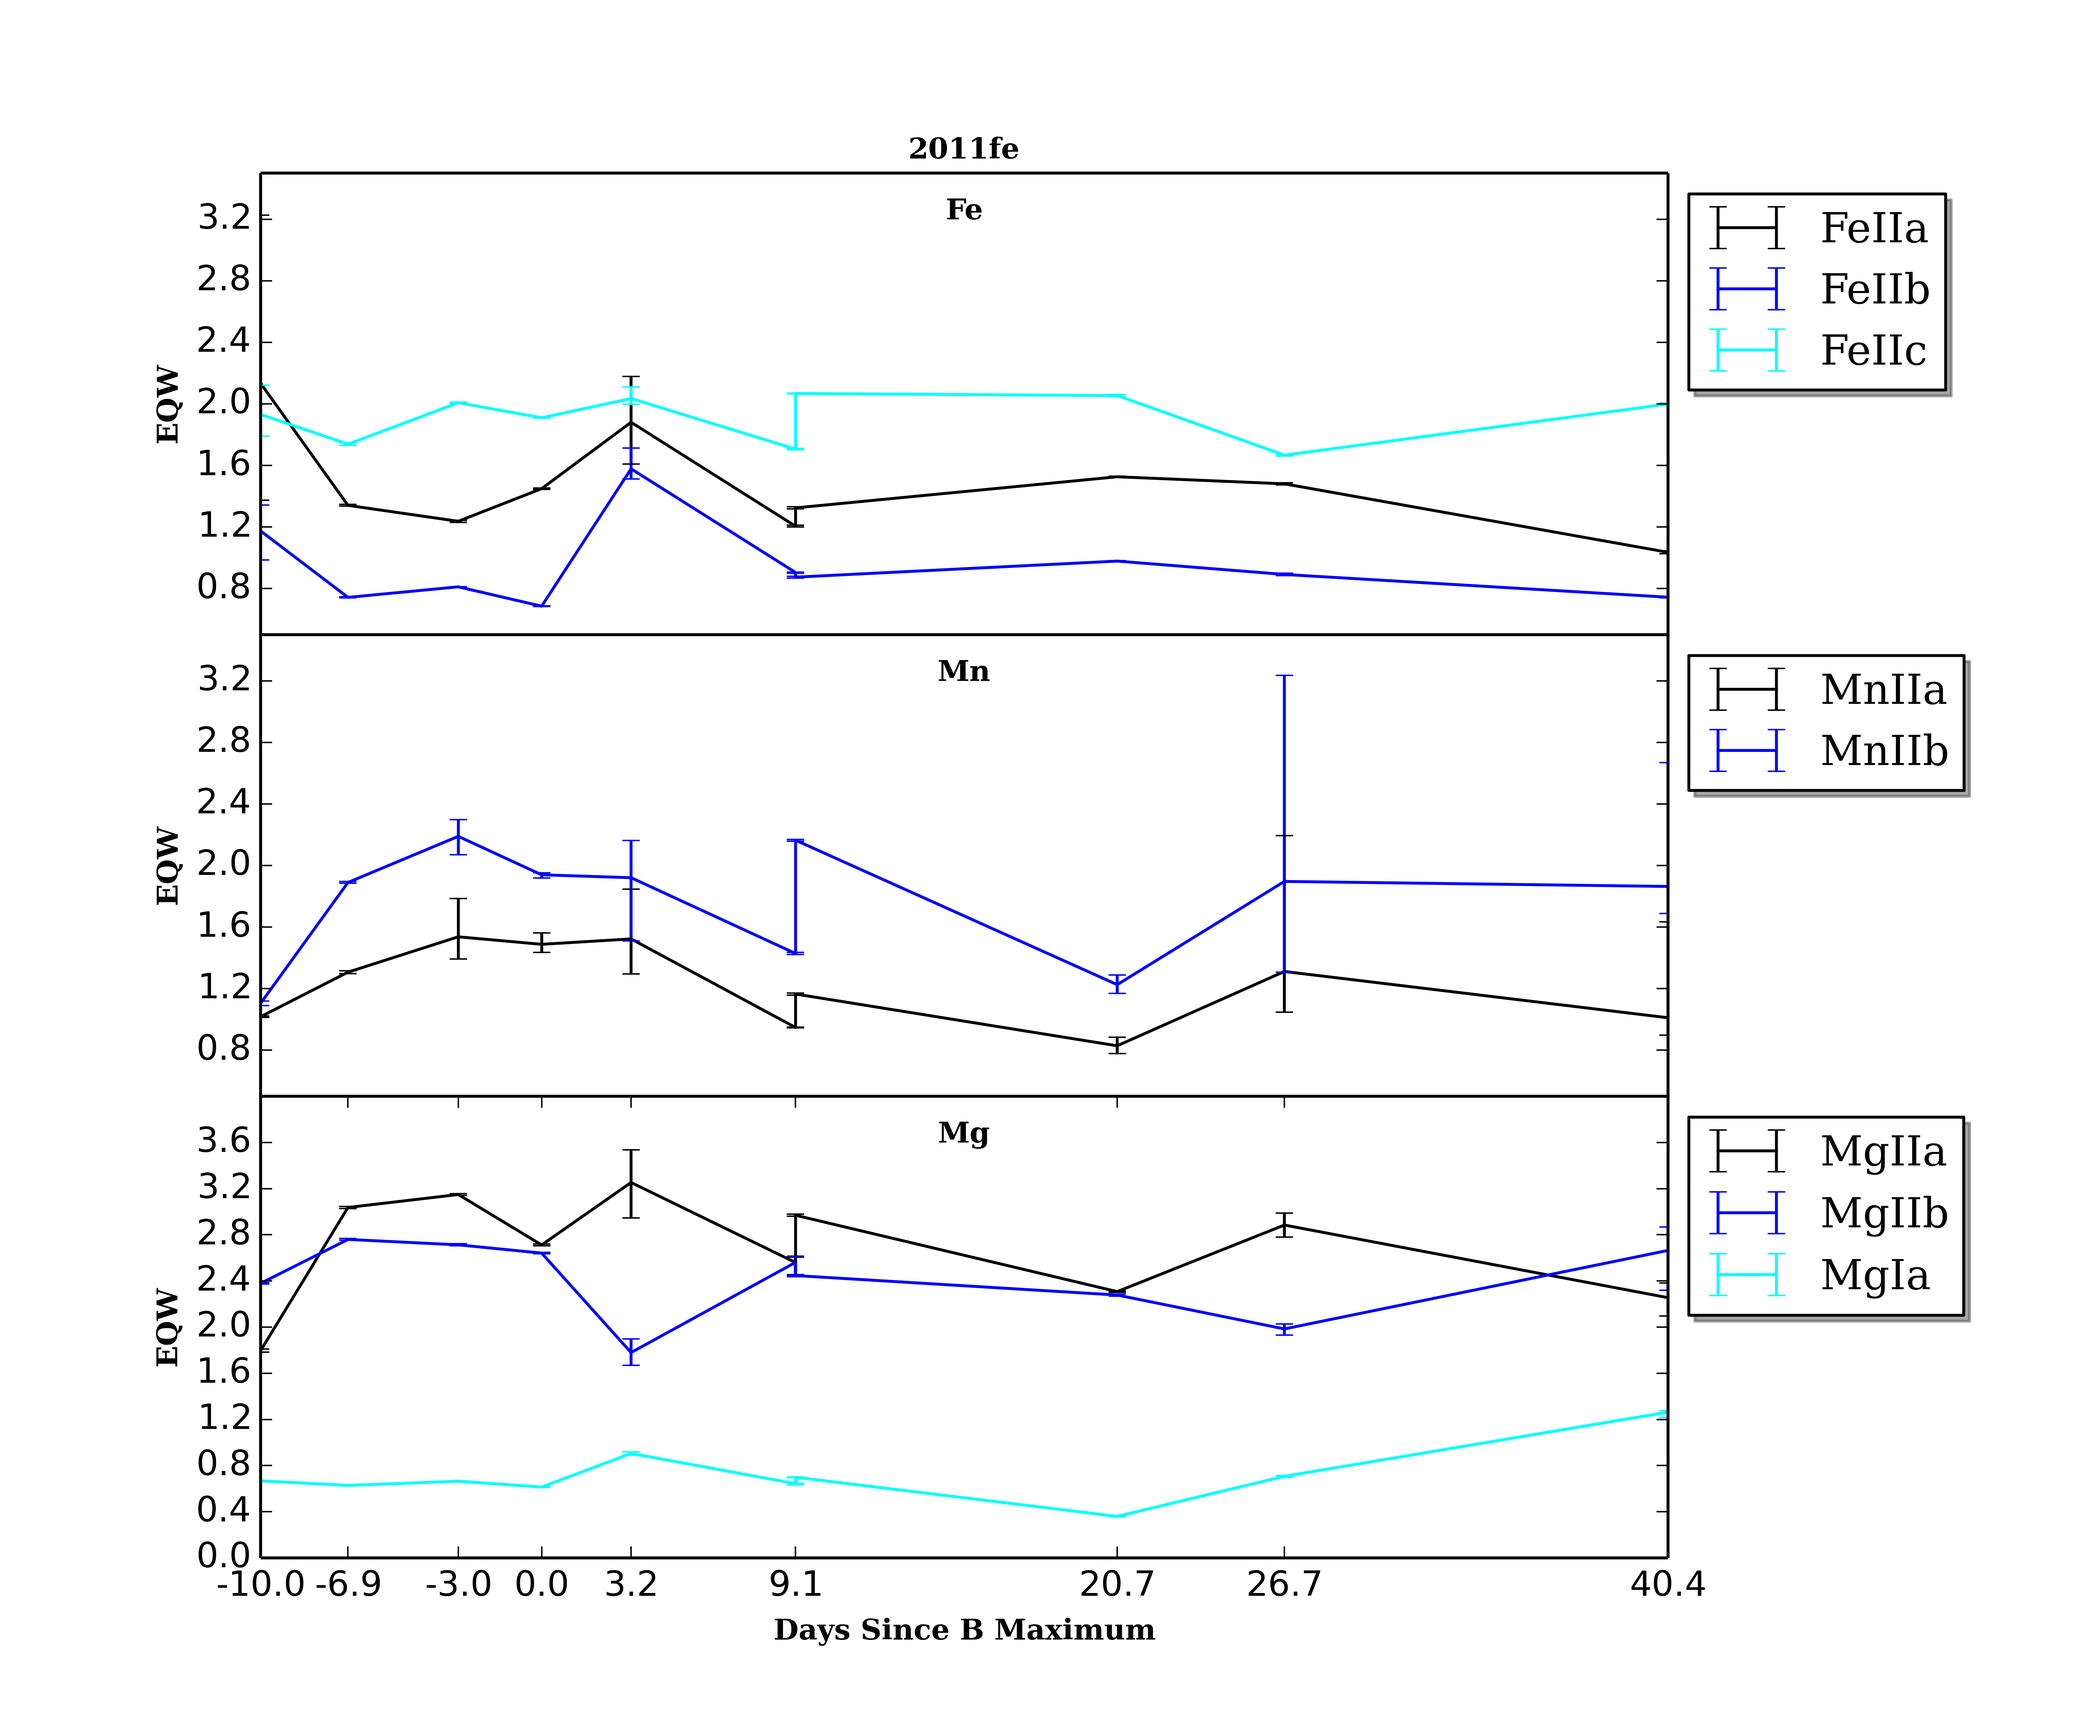
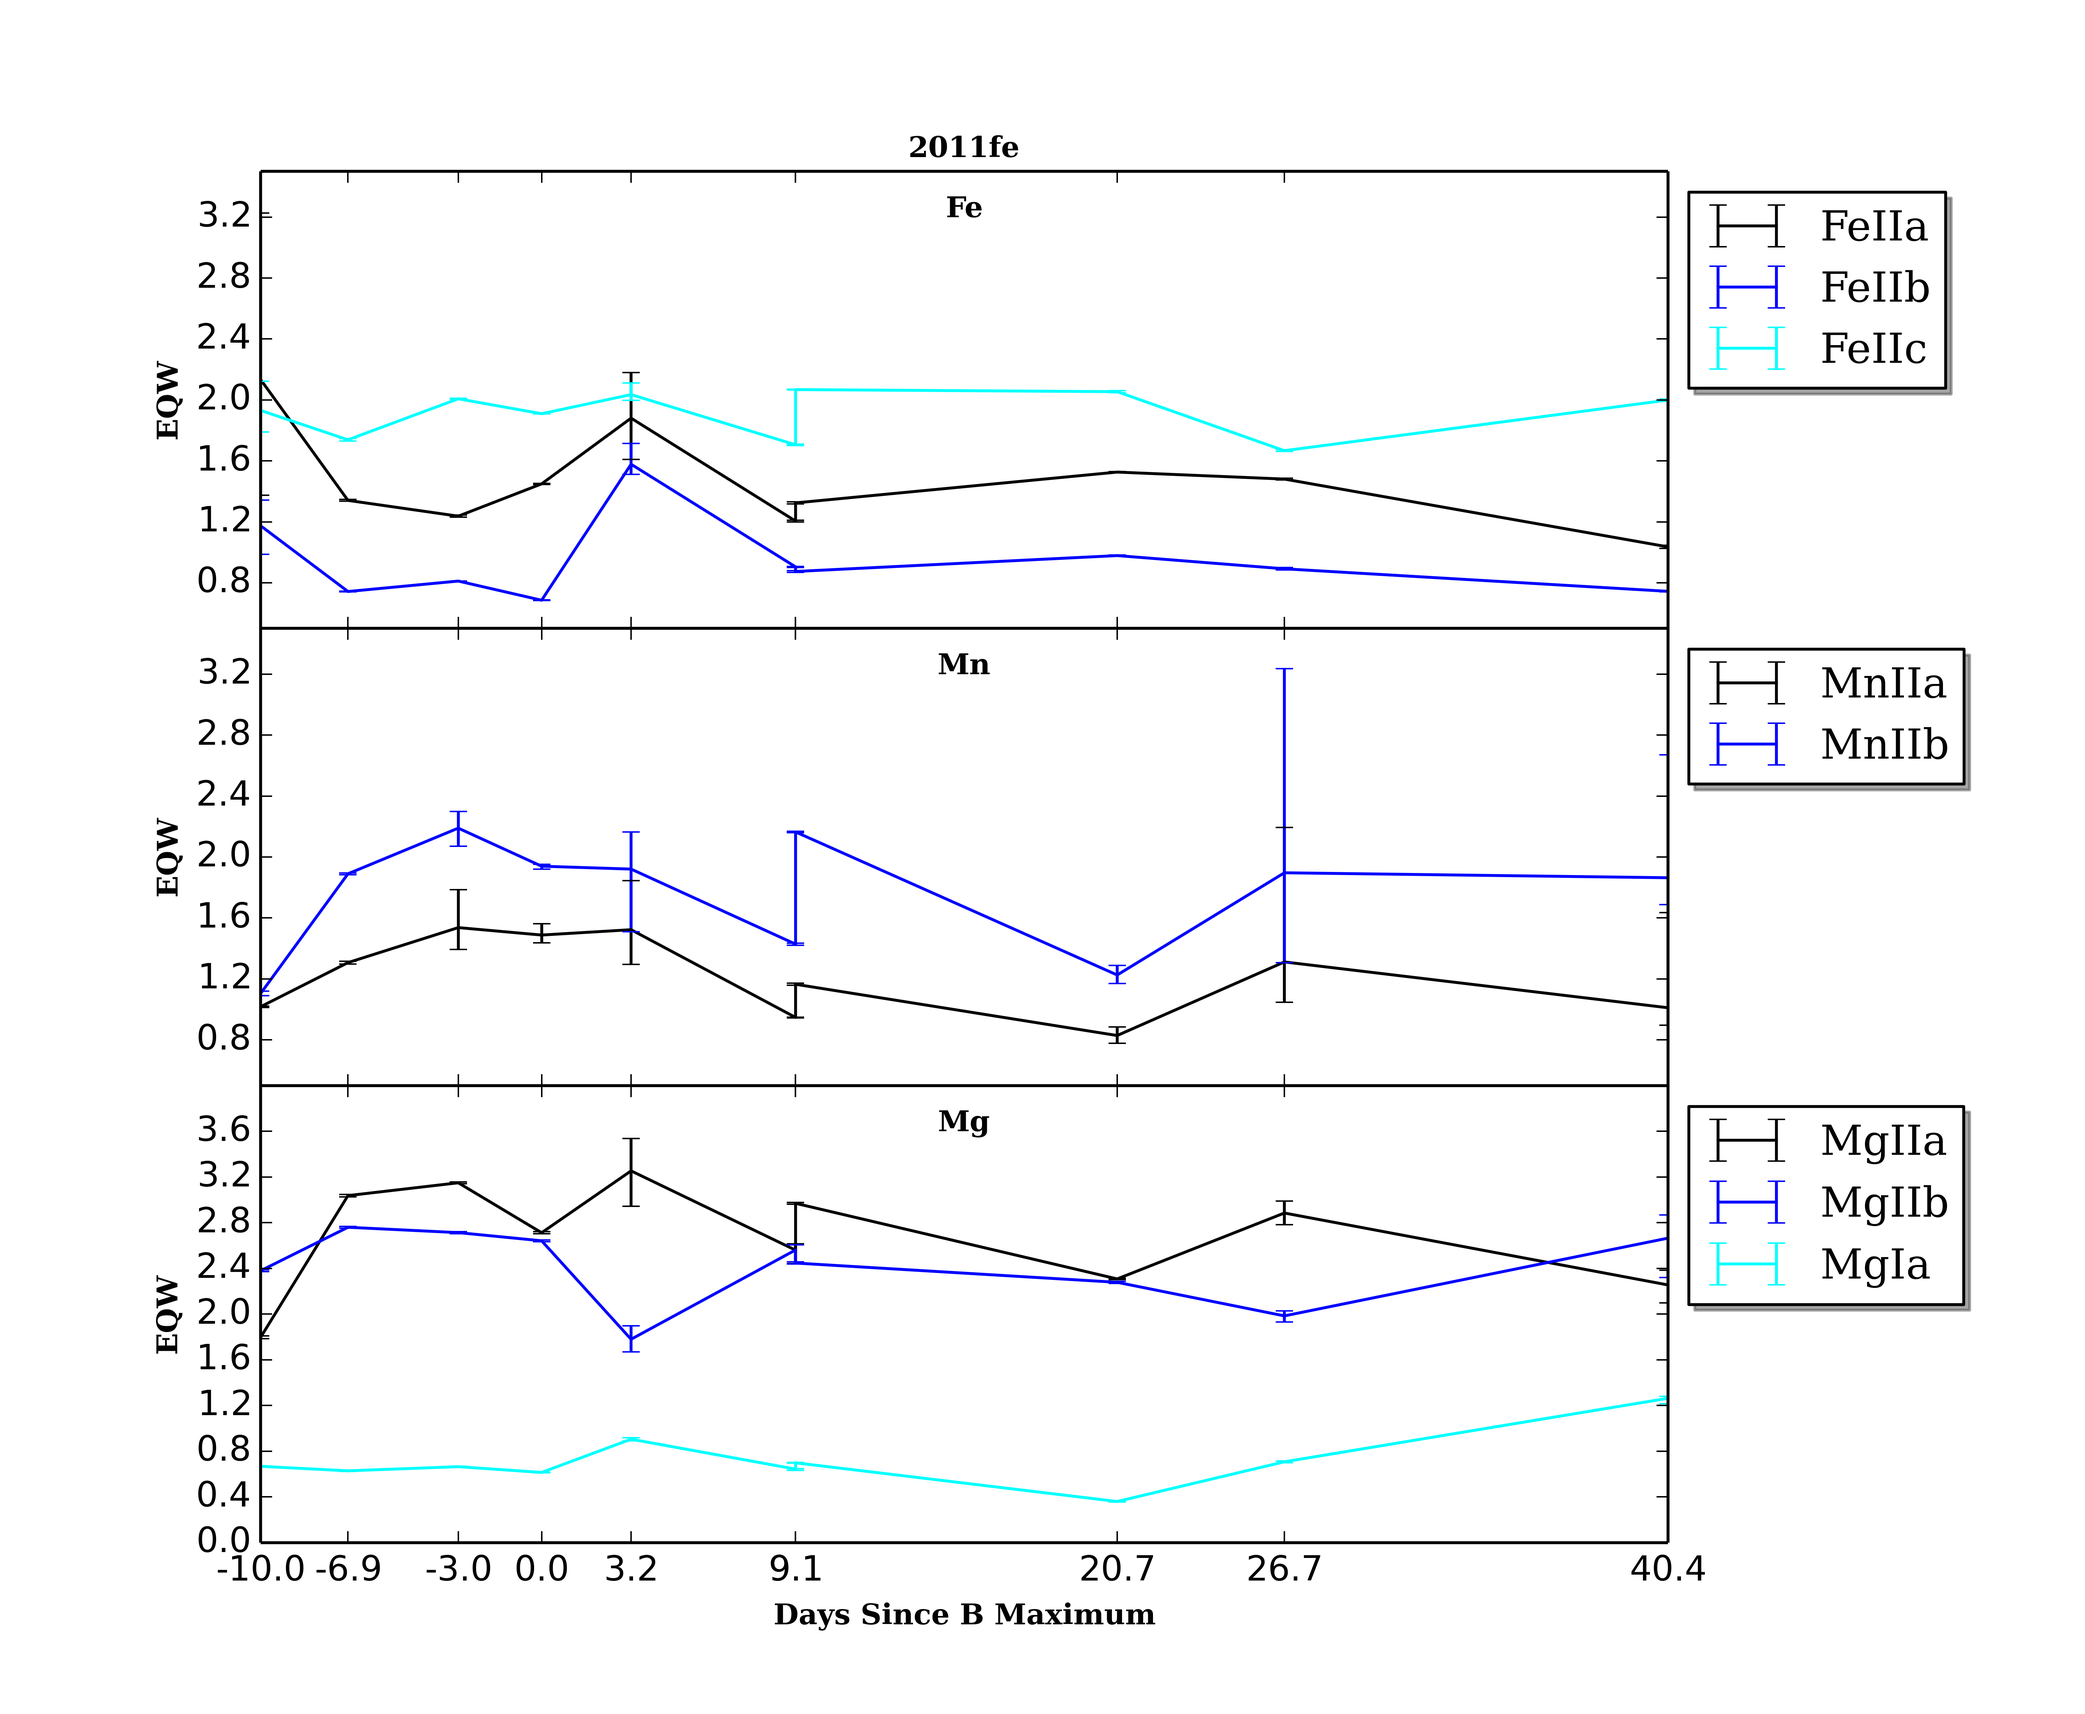
fixed ticks in plotting

Changed region(s): [[0.8103, 0.6869, 0.935, 0.7806], [0.8103, 0.1873, 0.935, 0.2498], [0.8103, 0.4371, 0.935, 0.4684]]

diff --git a/spAnalyze.py b/spAnalyze.py
@@ -670,7 +670,6 @@ def plotEqw(spectra):
 		
 	fig = plt.figure(num = 5, dpi = 100, figsize = [10, (3*len(spec_num)) + 2], facecolor = 'w')
 	gs = gridspec.GridSpec(1,1)
-	#!!! plots eqws, needs work!!!!
 	plt.title(spectra[0].sn, fontdict = font)
 	plt.gca().axes.get_xaxis().set_visible(False)
 	plt.gca().axes.get_yaxis().set_visible(False)
@@ -687,7 +686,6 @@ def plotEqw(spectra):
 		plt.xlim(epochs[0], epochs[len(epochs) - 1])
 		ax.set_xticks(epochs)
 		ax.set_xticklabels([])
-		plt.gca().axes.get_xaxis().set_visible(False)
 		plt.gca().axes.get_yaxis().set_visible(True)
 		plt.gca().yaxis.set_major_locator(MaxNLocator(prune='lower'))
 		plt.gca().yaxis.set_major_locator(MaxNLocator(prune='upper'))
@@ -718,7 +716,6 @@ def plotEqw(spectra):
 		plt.xlim(epochs[0], epochs[len(epochs) - 1])
 		ax.set_xticks(epochs)
 		ax.set_xticklabels([])
-		plt.gca().axes.get_xaxis().set_visible(False)
 		plt.gca().axes.get_yaxis().set_visible(True)
 		plt.gca().yaxis.set_major_locator(MaxNLocator(prune='lower'))
 		plt.gca().yaxis.set_major_locator(MaxNLocator(prune='upper'))
